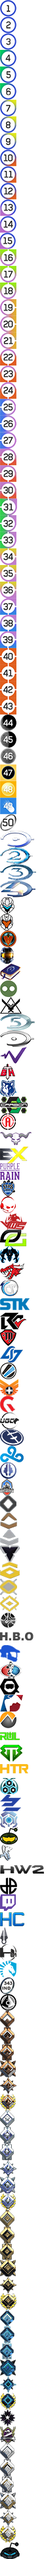
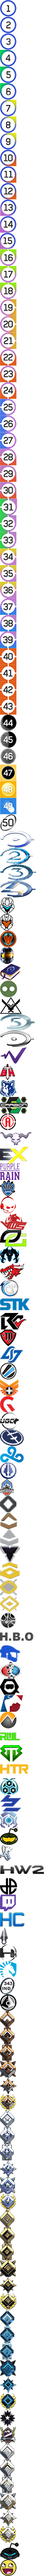
ADd Reddit Snoo button and Jawwi flair. Move dark spritesheet PSD into proper folder.

Changed region(s): [[0.0, 0.0, 0.6849, 1.0], [0.6849, 0.7169, 0.9041, 0.7481], [0.5205, 0.6234, 0.6849, 0.6545]]

diff --git a/NAUT 3 - Main CSS File.css b/NAUT 3 - Main CSS File.css
@@ -252,6 +252,42 @@ display:none;
     display: table;
     z-index: 99;
 }
+.side form.usertext .usertext-body > .md ul:before {
+
+}
+.side form.usertext .usertext-body > .md ul li:first-of-type {
+    display: block;
+    position: absolute;
+    width: 50px;
+    top: -25px;
+    left: 20px;
+    height: 25px;
+    background-image:url(%%reddit-alien%%);
+    background-repeat: no-repeat;
+    background-position: 50% 0%    
+-webkit-transition: all 500ms cubic-bezier(0.680, 0, 0.265, 1); /* older webkit */
+-webkit-transition: all 500ms cubic-bezier(0.680, -0.550, 0.265, 1.550); 
+   -moz-transition: all 500ms cubic-bezier(0.680, -0.550, 0.265, 1.550); 
+     -o-transition: all 500ms cubic-bezier(0.680, -0.550, 0.265, 1.550); 
+        transition: all 500ms cubic-bezier(0.680, -0.550, 0.265, 1.550); /* easeInOutBack */
+
+-webkit-transition-timing-function: cubic-bezier(0.680, 0, 0.265, 1); /* older webkit */
+-webkit-transition-timing-function: cubic-bezier(0.680, -0.550, 0.265, 1.550); 
+   -moz-transition-timing-function: cubic-bezier(0.680, -0.550, 0.265, 1.550); 
+     -o-transition-timing-function: cubic-bezier(0.680, -0.550, 0.265, 1.550); 
+        transition-timing-function: cubic-bezier(0.680, -0.550, 0.265, 1.550); /* easeInOutBack */
+}
+.side form.usertext .usertext-body > .md ul li:first-of-type:hover {
+    display: block;
+    position: absolute;
+    width: 50px;
+    top: -30px;
+    left: 20px;
+    height: 30px;  
+}
+.side form.usertext .usertext-body > .md ul li:first-of-type a {
+    text-indent: -9999999px;
+}
 .side form.usertext .usertext-body > .md ul li {
     position:relative;
     display: inline-block;
@@ -533,7 +569,7 @@ input:not([type="submit"]), textarea, .roundfield textarea, .roundfield input[ty
 .flair-H5Silver5:before{width:25px;height:25px;background-position:0 -3775px}
 .flair-H5Silver6:before{width:24px;height:25px;background-position:0 -3800px}
 .flair-RedditHaloLocke:before{width:30px;height:25px;background-position:0 -3825px}
-
+.flair-Jawwi:before{width:30px;height:25px;background-position:0 -3850px}
 /*
 ////////////////////////////
 // RESPONSIVE STYLES HERE //
